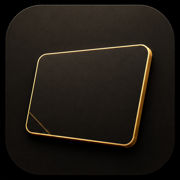
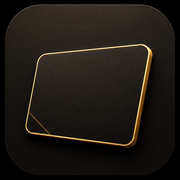
fix(pwa): устранить черный экран в iOS PWA и восстановить иконку для iPhone Safari

diff --git a/src/pwa-update.js b/src/pwa-update.js
@@ -1,6 +1,5 @@
 import { toast } from './shared/components/toast.js';
 import { APP_VERSION } from './app-version.js';
-import { isOnboarded } from './onboarding.js';
 
 const CHECK_INTERVAL = 30 * 60 * 1000;
 const INSTALL_TIMEOUT = 12000;
@@ -33,22 +32,8 @@ function setChecking(checking) {
   }
 }
 
-// Новичок на приветствии: черновика ещё нет, терять нечего, а кнопки
-// «Обновить» на этом экране нет — без автообновления он застревал на старой
-// версии, пока не закроет вкладку. Публичные /v/ и /r/ не трогаем: там гость
-// читает визитку, и перезагрузка посреди чтения ему ни к чему.
-function canUpdateSilently() {
-  const path = window.location.pathname;
-  return !isOnboarded() && !path.startsWith('/v/') && !path.startsWith('/r/');
-}
-
 function showAvailable(worker = null) {
   waitingWorker = worker || watchedRegistration?.waiting || waitingWorker;
-  if (canUpdateSilently() && waitingWorker) {
-    reloadRequested = true;
-    waitingWorker.postMessage({ type: 'SKIP_WAITING' });
-    return;
-  }
   const { banner, status, control } = ui();
   if (banner) banner.hidden = false;
   if (status) status.textContent = 'Доступна новая версия визитки';
@@ -211,7 +196,13 @@ export function initPwaUpdates() {
     if (!reloadRequested || reloading) return;
     reloading = true;
     hideAvailable();
-    window.location.reload();
+    const isStandalone = window.navigator.standalone === true ||
+      window.matchMedia('(display-mode: standalone)').matches;
+    if (isStandalone) {
+      window.location.href = window.location.href;
+    } else {
+      window.location.reload();
+    }
   });
 
   registerPwaUpdates()

diff --git a/vite.config.js b/vite.config.js
@@ -34,7 +34,20 @@ export default defineConfig({
       registerType: 'prompt',
       injectRegister: false,
       filename: 'sw.js',
-      includeAssets: ['icon.png', 'icon-192.png', 'maskable-icon.png', 'apple-touch-icon.png', 'apple-touch-icon-precomposed.png', 'favicon.ico'],
+      includeAssets: [
+        'icon.png',
+        'icon-192.png',
+        'maskable-icon.png',
+        'apple-touch-icon.png',
+        'apple-touch-icon-precomposed.png',
+        'apple-touch-icon-240x240.png',
+        'apple-touch-icon-240x240-precomposed.png',
+        'apple-touch-icon-180x180.png',
+        'apple-touch-icon-180x180-precomposed.png',
+        'apple-touch-icon-120x120.png',
+        'apple-touch-icon-120x120-precomposed.png',
+        'favicon.ico'
+      ],
       workbox: {
         // woff2 в precache: фирменная антиква должна быть и офлайн.
         // TTF (99КБ) намеренно не кэшируем — это запасной вариант для
@@ -88,6 +101,8 @@ export default defineConfig({
         background_color: '#060607',
         theme_color: '#060607',
         icons: [
+          { src: '/apple-touch-icon-240x240.png', sizes: '240x240', type: 'image/png', purpose: 'any' },
+          { src: '/apple-touch-icon-180x180.png', sizes: '180x180', type: 'image/png', purpose: 'any' },
           { src: '/apple-touch-icon.png', sizes: '180x180', type: 'image/png', purpose: 'any' },
           { src: '/icon-192.png', sizes: '192x192', type: 'image/png', purpose: 'any' },
           { src: '/icon.png', sizes: '512x512', type: 'image/png', purpose: 'any' },

diff --git a/index.html b/index.html
@@ -17,10 +17,15 @@
       name="description"
       content="Бесплатная электронная визитка для event-специалистов: контакты, услуги, QR-код и ссылка."
     />
-    <!-- iPhone берёт иконку экрана «Домой»: универсальная ссылка + precomposed -->
+    <!-- iPhone берёт иконку экрана «Домой»: универсальная ссылка + precomposed для всех разрешений Retina -->
     <link rel="apple-touch-icon" href="/apple-touch-icon.png" />
-    <link rel="apple-touch-icon" sizes="180x180" href="/apple-touch-icon.png" />
+    <link rel="apple-touch-icon" sizes="240x240" href="/apple-touch-icon-240x240.png" />
+    <link rel="apple-touch-icon" sizes="180x180" href="/apple-touch-icon-180x180.png" />
+    <link rel="apple-touch-icon" sizes="120x120" href="/apple-touch-icon-120x120.png" />
     <link rel="apple-touch-icon-precomposed" href="/apple-touch-icon-precomposed.png" />
+    <link rel="apple-touch-icon-precomposed" sizes="240x240" href="/apple-touch-icon-240x240-precomposed.png" />
+    <link rel="apple-touch-icon-precomposed" sizes="180x180" href="/apple-touch-icon-180x180-precomposed.png" />
+    <link rel="apple-touch-icon-precomposed" sizes="120x120" href="/apple-touch-icon-120x120-precomposed.png" />
     <link rel="icon" type="image/png" sizes="192x192" href="/icon-192.png" />
     <link rel="icon" href="/favicon.ico" sizes="48x48" />
     <!-- Шаблоны онбординга не preload'им в HTML: они нужны только на первом

diff --git a/src/app.js b/src/app.js
@@ -220,11 +220,20 @@ export function mountApp() {
           app.innerHTML = `
             <div style="padding: 48px 16px; text-align: center; color: var(--text);">
               <p style="font-size: 16px; margin-bottom: 20px; color: var(--muted);">Не удалось загрузить раздел</p>
-              <button type="button" class="ca-tab" style="padding: 12px 24px; border-radius: 12px; background: var(--brand-gold-grad, #d9cbb0); color: #060607; font-weight: 600; border: none; cursor: pointer;" onclick="window.location.reload()">
+              <button type="button" class="ca-tab" data-route-retry style="padding: 12px 24px; border-radius: 12px; background: var(--brand-gold-grad, #d9cbb0); color: #060607; font-weight: 600; border: none; cursor: pointer;">
                 Обновить
               </button>
             </div>
           `;
+          app.querySelector('[data-route-retry]')?.addEventListener('click', () => {
+            const isStandalone = window.navigator.standalone === true ||
+              window.matchMedia('(display-mode: standalone)').matches;
+            if (isStandalone) {
+              window.location.href = window.location.href;
+            } else {
+              window.location.reload();
+            }
+          });
         }
       }
     }
